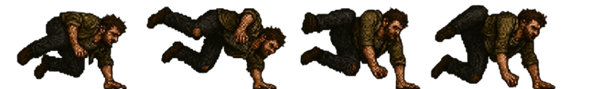
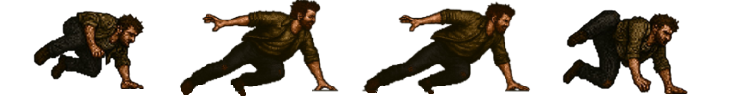
Salto afinado y velocidad ajustada

diff --git a/src/scenes/GameScene.js b/src/scenes/GameScene.js
@@ -16,13 +16,13 @@ export default class GameScene extends Phaser.Scene {
         });
 
         // Saltar 
-        this.load.spritesheet('anim_jump', 'assets/img/jump.png', {
-            frameWidth: 126, frameHeight: 100
+        this.load.spritesheet('anim_jump', 'assets/img/jumpA.png', {
+            frameWidth: 169, frameHeight: 100
         });
 
         // Pirueta 
         this.load.spritesheet('anim_pirouette', 'assets/img/jump2.png', {
-            frameWidth: 143, frameHeight: 89
+            frameWidth: 180, frameHeight: 97
         });
 
         // Agacharse 
@@ -146,7 +146,7 @@ export default class GameScene extends Phaser.Scene {
         this.bg.tilePositionX += this.gameSpeed;
         this.scoreDistance += 0.05 * this.gameSpeed;
         this.scoreText.setText(`Distancia: ${Math.floor(this.scoreDistance)}m`);
-        this.gameSpeed += 0.001;
+        this.gameSpeed += 0.005;// Aumento de la velocidad según avanzamos
 
         // 2. Detectar intención de agacharse
         const isDucking = this.cursors.down.isDown || this.duckBtnDown;
@@ -202,22 +202,47 @@ export default class GameScene extends Phaser.Scene {
     // =================================================================
 
     createAnimations() {
-        this.anims.create({ key: 'run', frames: this.anims.generateFrameNumbers('anim_run', { start: 0, end: -1 }), frameRate: 12, repeat: -1 });
-        this.anims.create({ key: 'jump', frames: this.anims.generateFrameNumbers('anim_jump', { start: 0, end: -1 }), frameRate: 12, repeat: 0 });
-        this.anims.create({ key: 'pirouette', frames: this.anims.generateFrameNumbers('anim_pirouette', { start: 0, end: -1 }), frameRate: 15, repeat: 0 });
-        this.anims.create({ key: 'duck', frames: this.anims.generateFrameNumbers('anim_duck', { start: 0, end: -1 }), frameRate: 12, repeat: -1 });
-        this.anims.create({ key: 'zombie_run', frames: this.anims.generateFrameNumbers('anim_zombie', { start: 0, end: -1 }), frameRate: 10, repeat: -1 });
+        this.anims.create({ key: 'run', 
+            frames: this.anims.generateFrameNumbers('anim_run', { 
+                start: 0, end: -1 
+            }), 
+            frameRate: 12, repeat: -1 
+        });
+        this.anims.create({ key: 'jump', 
+            frames: this.anims.generateFrameNumbers('anim_jump', { 
+                start: 0, end: -1 
+            }), 
+            frameRate: 6, repeat: 0 
+        });
+        this.anims.create({ key: 'pirouette', 
+            frames: this.anims.generateFrameNumbers('anim_pirouette', { 
+                start: 0, end: -1 
+            }), 
+            frameRate: 6, repeat: 0 
+        });
+        this.anims.create({ key: 'duck', 
+            frames: this.anims.generateFrameNumbers('anim_duck', { 
+                start: 0, end: -1 
+            }), 
+            frameRate: 9, repeat: -1 
+        });
+        this.anims.create({ key: 'zombie_run', 
+            frames: this.anims.generateFrameNumbers('anim_zombie', { 
+                start: 0, end: -1 
+            }), 
+            frameRate: 10, repeat: -1 
+        });
     }
 
     performJump() {
-        this.player.setVelocityY(-650); // Impulso hacia arriba
+        this.player.setVelocityY(-450); // Impulso hacia arriba
 
-        // Caja pequeña para el salto (40x80)
-        this.player.body.setSize(40, 80);
-        this.player.body.setOffset(45, 10); 
+        // Caja pequeña para el salto 
+        this.player.body.setSize(35, 90);
+        this.player.body.setOffset(49, 10); 
 
         // Probabilidad de hacer pirueta (30%)
-        if (Math.random() > 0.3) {
+        if (Math.random() > 0.4) {
             this.player.play('jump');
         } else {
             this.player.play('pirouette');
@@ -238,13 +263,13 @@ export default class GameScene extends Phaser.Scene {
             if (this.player.body.touching.down) {
                 this.player.y = this.groundY;
             }
-        } else {
+        } /*else {
             // --- MODO DE PIE ---
             // Solo restauramos la CAJA FÍSICA. 
             // NO tocamos la animación aquí para no romper el salto.
             this.player.body.setSize(50, 120);
             this.player.body.setOffset(50, 20);
-        }
+        }*/
     }
 
     spawnObstacle() {
@@ -264,7 +289,7 @@ export default class GameScene extends Phaser.Scene {
         } else {
             // --- MURO AÉREO (Hay que agacharse) ---
             const height = 400;
-            const gap = 100; // Hueco libre debajo del muro
+            const gap = 80; // Hueco libre debajo del muro
             // La colocamos flotando arriba
             const yPos = this.groundY - gap - (height / 2);
             obstacle = this.add.rectangle(w + 50, yPos, 50, height, 0xff0000);
@@ -279,6 +304,7 @@ export default class GameScene extends Phaser.Scene {
     }
 
     handleCollision(obstacle) {
+        //return;
         if (obstacle.hit) return; // Evitar múltiples impactos
         obstacle.hit = true;
         obstacle.fillColor = 0x555555; // Cambiar color al chocar

diff --git a/src/main.js b/src/main.js
@@ -18,7 +18,7 @@ const config = {
         default: 'arcade',
         arcade: {
             gravity: { y: 1000 }, // Gravedad fuerte para saltos rápidos tipo parkour
-            debug: false // Pon true para ver las cajas de colisión
+            debug: true // Pon true para ver las cajas de colisión
         }
     },
     scene: [BootScene, MainMenuScene, GameScene, GameOverScene]
